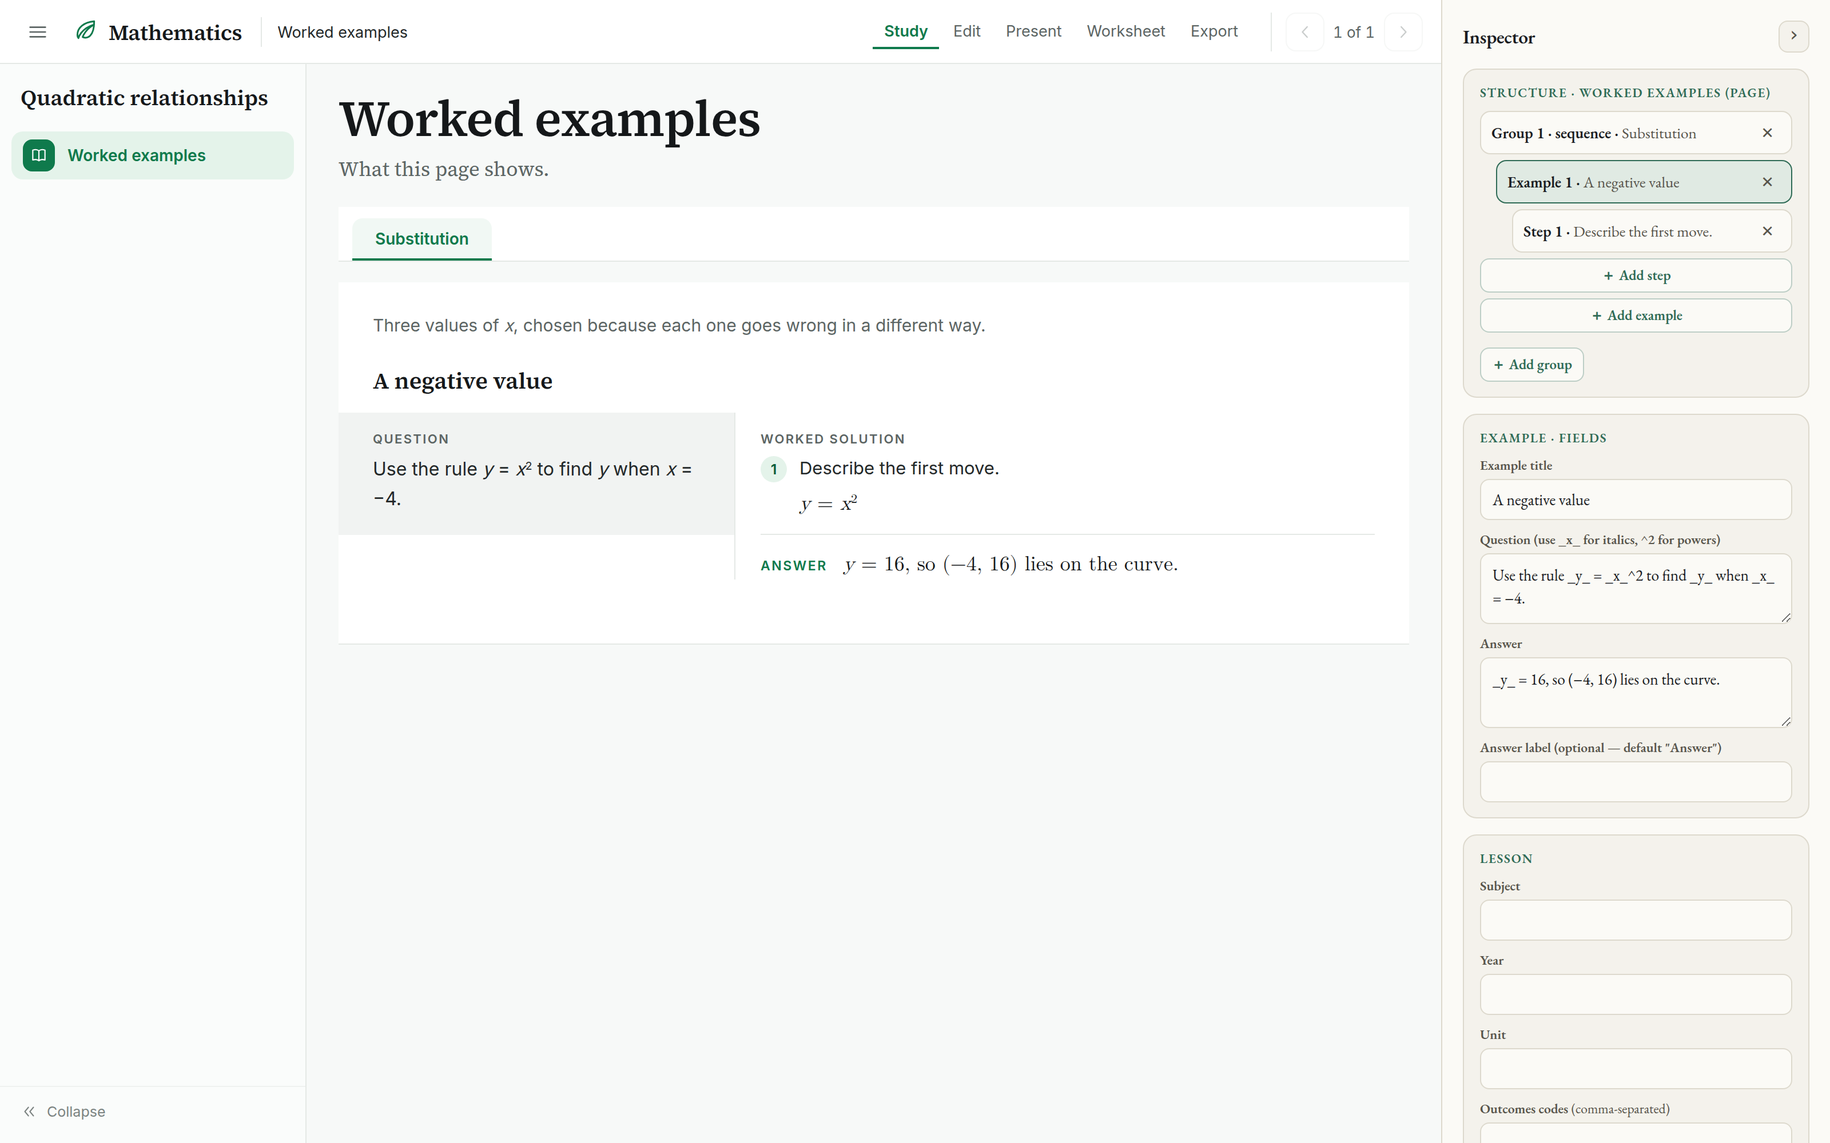
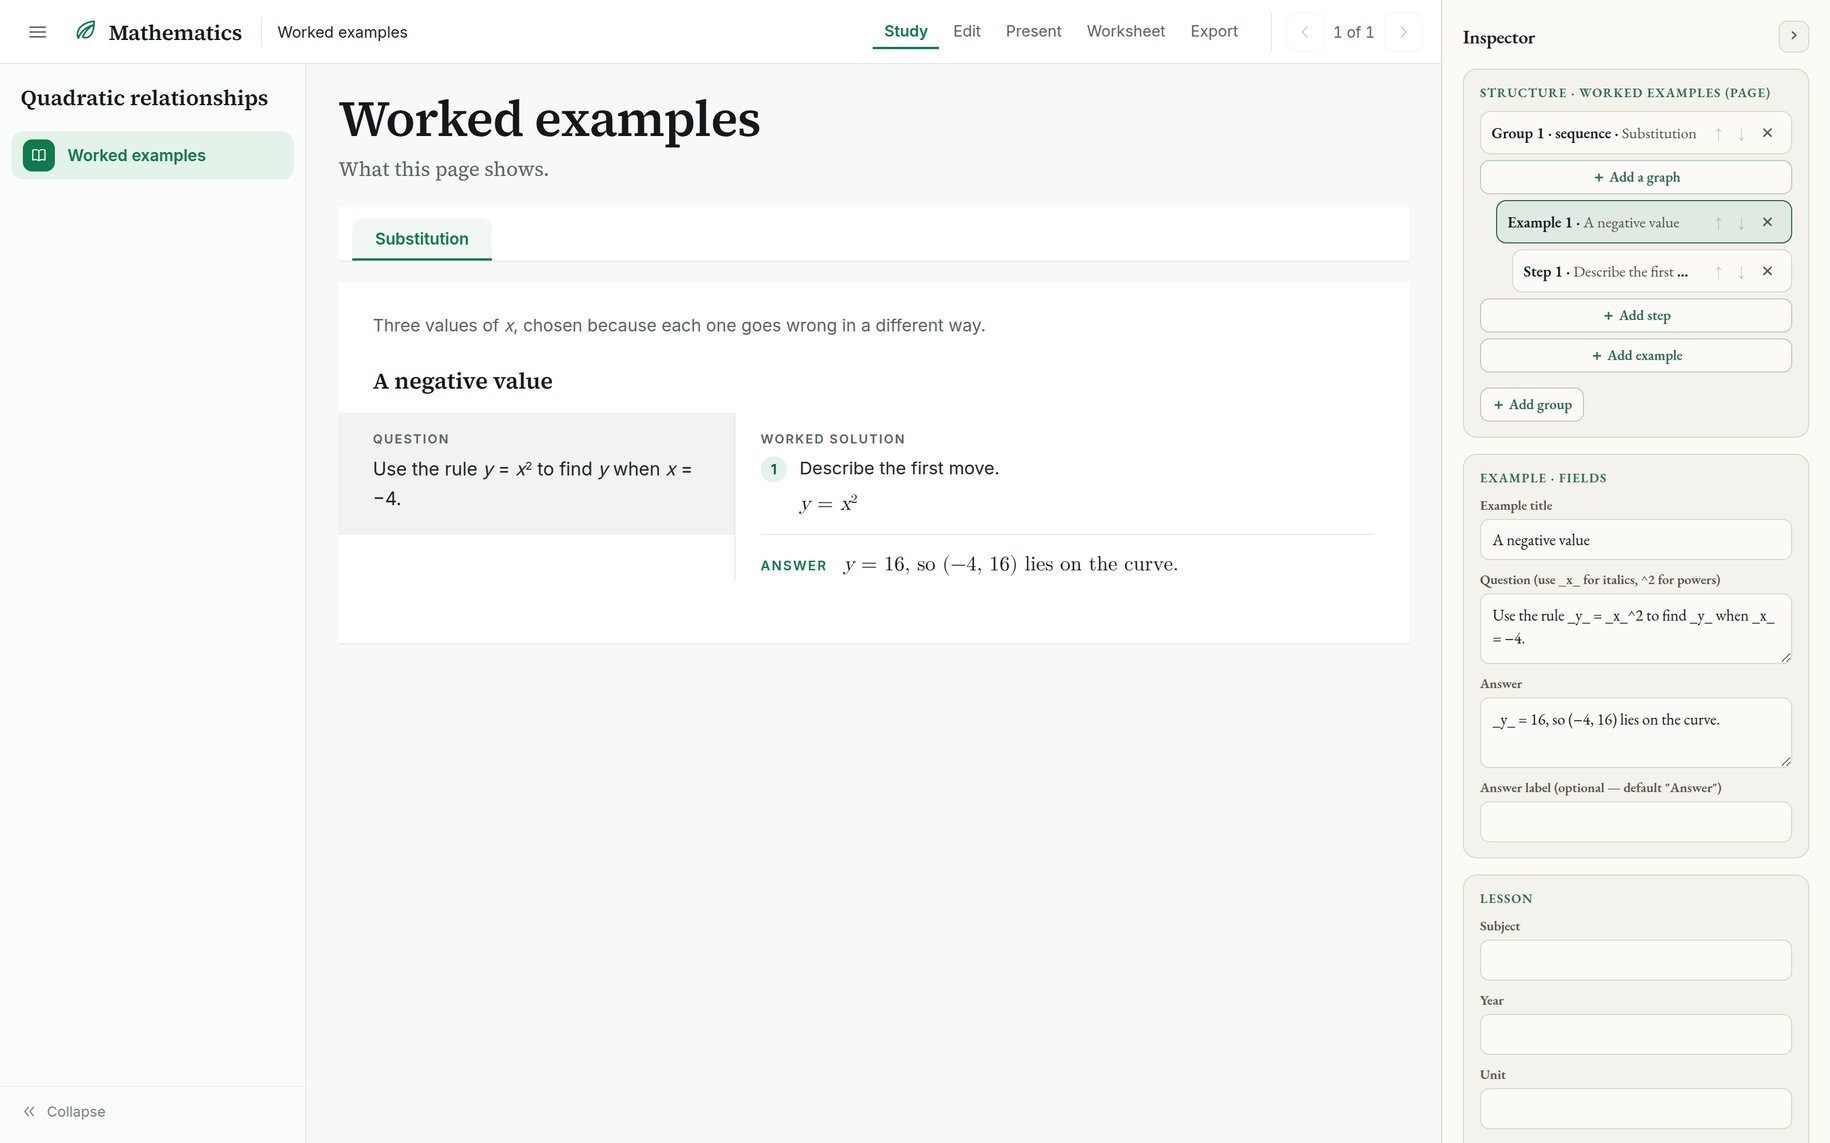
app: stage 3B — the mathematics inside a graph is editable
The graph and its objects are rows in the same outline as groups, examples and
steps, with the same reorder and remove; the fields below are the same helpers
on ordinary bound paths. No second layout system, and the figure engine is
untouched.

EXACTLY THE VOCABULARY THE RENDERER ACCEPTS — function, line, points, segment —
read out of figGraph rather than out of SCHEMA.md. An editor offering a fifth
type the page ignores would be a lie; the drive that adds one is caught.

THE LEGACY ALIASES STILL READ. figGraph accepts `f` with an `expr` alias, `rows`
with a `points` alias, and `between` with from/to. The form reads the same
fallbacks so a lesson authored the old way shows its values, and writes only the
canonical field.

A REFERENCE LINE HAS EXACTLY ONE OF x OR y — the renderer skips it with a
reported error otherwise. Changing the direction therefore MOVES the value
between the keys instead of adding a second, so the editor cannot author the
broken state it would then have to explain.

MARKED POINTS ARE [id, x, y] ARRAYS and the bound path reaches inside one
(objects.2.rows.1.1). setP walks numeric keys, and figGraph's num() accepts the
string a text input writes while still rejecting an empty cell rather than
reading it as an authored 0 — which is exactly what its own comment warns about.

THE WINDOW IS OFFERED WITH ITS CONSEQUENCE STATED. Domain, unit scale, grid and
callouts, plus the note that the window decides the plane's shape and the shape
[…]

diff --git a/lesson-studio.html b/lesson-studio.html
@@ -5265,12 +5265,30 @@ function mxAuthorablePages(){ const t=(LESSON.meta&&LESSON.meta.theme)||'', byTh
   return Object.keys(MX_PAGE_SEED).filter(k=>byTheme[k]&&byTheme[k].layoutMode==='responsive'); }
 function mxPageSeed(t){ return JSON.parse(JSON.stringify(MX_PAGE_SEED[t])); }
 /* selection: mx.g.<group> · mx.e.<group>.<example> · mx.s.<group>.<example>.<step> */
-function mxSel(sel){ const m=/^mx\.([gest])\.(\d+)(?:\.(\d+))?(?:\.(\d+))?$/.exec(String(sel||''));
+function mxSel(sel){ const m=/^mx\.([gestfo])\.(\d+)(?:\.(\d+))?(?:\.(\d+))?$/.exec(String(sel||''));
   return m?{kind:m[1],g:+m[2],e:m[3]==null?null:+m[3],s:m[4]==null?null:+m[4]}:null; }
 function mxGroups(s){ return Array.isArray(s.groups)?s.groups:[]; }
 /* THE OUTLINE IS THE STRUCTURE, and it is the only new UI: every field below it is an existing helper
    (inT/inA/inSel) writing an ordinary data-bind path, so setP/getP and the live re-render do the work
    they already did for every other type. */
+/* ONE GRAPH PER GROUP, found the way the renderer finds it. The lesson attaches its graphs as
+   `relations[{kind:'figure', figure:{…}}]`, so that is what is edited; nothing here invents a second
+   place for a figure to live. */
+function mxFigAt(g){ const r=Array.isArray(g&&g.relations)?g.relations:[];
+  const k=r.findIndex(x=>x&&x.kind==='figure'&&x.figure); return k<0?null:{k:k, fig:r[k].figure}; }
+/* WHAT THE RENDERER READS, SAID BACK. figGraph accepts `f` with a legacy `expr` alias, `rows` with a legacy
+   `points` alias, and `between` with legacy `from`/`to`; the form reads the same fallbacks so a lesson
+   authored the old way still shows its values, and writes only the canonical field. */
+function mxObjF(o){ return o&&o.f!=null?o.f:(o&&o.expr!=null?o.expr:''); }
+function mxObjRows(o){ return (o&&Array.isArray(o.rows))?o.rows:((o&&Array.isArray(o.points))?o.points:[]); }
+function mxObjLabel(o){
+  if(!o||!o.type) return 'object';
+  if(o.type==='function') return 'function · '+(mxObjF(o)||'(empty)');
+  if(o.type==='line') return 'line · '+(isFinite(+o.y)?('y = '+o.y):(isFinite(+o.x)?('x = '+o.x):'(no x or y)'));
+  if(o.type==='points') return 'points · '+mxObjRows(o).length+' marked';
+  if(o.type==='segment'){ const b=Array.isArray(o.between)?o.between:[o.from,o.to]; return 'segment · '+(b[0]||'?')+'–'+(b[1]||'?'); }
+  return String(o.type);
+}
 function mxOutline(i,s,sel){
   const S=mxSel(sel), base=`slides.${i}`;
   /* REORDER LIVES ON THE ROW, exactly as it does for blocks: the arrows are disabled at the ends rather
@@ -5297,6 +5315,18 @@ function mxOutline(i,s,sel){
         tree+=`<div class="muted small" style="margin-left:14px">${stEff.length} representation(s) by default · ${esc(stEff.map(x=>x.label).join(' · '))}</div>
           <button class="blk-add-t" data-mxstates="${gi}">Edit representations — write the defaults in</button>`;
       }
+      /* THE GRAPH AND WHAT IS IN IT. The objects are the mathematics — the curve, the reference line, the
+         marked points — and they are listed and edited exactly like every other array here. */
+      const F=mxFigAt(g);
+      if(F){
+        tree+=`<div class="blk-row${sel===`mx.f.${gi}`?' cur':''}" data-mxsel="mx.f.${gi}" style="margin-left:14px">
+          <span class="blk-t">Graph${F.fig.domain?` · <span class="muted">${esc('x '+F.fig.domain.xMin+'…'+F.fig.domain.xMax)}</span>`:''}</span>
+          <span class="blk-ord"><button class="ibtn-x" data-mxdel="f.${gi}" title="Remove the graph">✕</button></span></div>`;
+        if(S.kind==='f'||S.kind==='o'){ const OB=Array.isArray(F.fig.objects)?F.fig.objects:[];
+          OB.forEach((o,oi)=>tree+=row('margin-left:28px',`mx.o.${gi}.${oi}`,mxObjLabel(o),(o&&o.label)||'',`o.${gi}.${oi}`,`o.${gi}`,oi,OB.length));
+          tree+=`<div class="blk-palette" style="margin-left:28px">${['function','line','points','segment']
+            .map(t=>`<button class="blk-add-t" data-mxadd="o.${gi}.${t}">＋ ${t}</button>`).join('')}</div>`; }
+      } else tree+=`<button class="blk-add-t" data-mxadd="f.${gi}">＋ Add a graph</button>`;
       (g.examples||[]).forEach((ex,ei)=>{
         const EX=g.examples;
         tree+=row('margin-left:14px',`mx.e.${gi}.${ei}`,`Example ${ei+1}`,ex.label,`e.${gi}.${ei}`,`e.${gi}`,ei,EX.length);
@@ -5317,6 +5347,43 @@ function mxOutline(i,s,sel){
       ${ig('mxg.title',sel,inT('Tab title',`${gb}.title`,g.title))}
       ${ig('mxg.lede',sel,inA('Lede — what this subtopic is for',`${gb}.lede`,g.lede))}
       ${ig('mxg.foot',sel,inT('Closing region label (optional)',`${gb}.footLabel`,g.footLabel))}</div>`;
+    if(S.kind==='f'||S.kind==='o'){
+      const F=mxFigAt(g); if(!F) return `<div class="ihint">That graph is gone — add one.</div>`;
+      const fb=`${gb}.relations.${F.k}.figure`, d=F.fig.domain||{};
+      if(S.kind==='f') return `<div class="isec"><div class="isec-h">Graph · the window it is drawn in</div>
+        ${ig('mxf.x0',sel,inT('x from',`${fb}.domain.xMin`,d.xMin))}${ig('mxf.x1',sel,inT('x to',`${fb}.domain.xMax`,d.xMax))}
+        ${ig('mxf.y0',sel,inT('y from',`${fb}.domain.yMin`,d.yMin))}${ig('mxf.y1',sel,inT('y to',`${fb}.domain.yMax`,d.yMax))}
+        ${ig('mxf.asp',sel,inSel('Unit scale',`${fb}.aspect`,F.fig.aspect==='equal'?'equal':'stretch',
+          [['equal','Equal — one x-unit is one y-unit'],['stretch','Stretch to the box']]))}
+        ${ig('mxf.grid',sel,inSel('Grid',`${fb}.grid`,F.fig.grid==='hidden'?'hidden':'shown',[['shown','Shown'],['hidden','Hidden']]))}
+        ${ig('mxf.co',sel,inSel('Tap-to-read callouts',`${fb}.callouts`,F.fig.callouts==='hidden'?'hidden':'shown',[['shown','Shown'],['hidden','Hidden']]))}
+        <div class="muted small">The window decides the plane's shape, and the shape decides the composition — a wide window earns the full width, everything else the centred stage. That is the approved rule, so it is meant to move.</div></div>`;
+      const OB=Array.isArray(F.fig.objects)?F.fig.objects:[], o=OB[S.e];
+      if(!o) return `<div class="ihint">That object is gone — select another.</div>`;
+      const ob=`${fb}.objects.${S.e}`;
+      if(o.type==='function') return `<div class="isec"><div class="isec-h">Function · fields</div>
+        ${ig('mxo.f',sel,inT('y = …  (x, + − * / ^, brackets)',`${ob}.f`,mxObjF(o)))}
+        ${ig('mxo.fl',sel,inT('Label on the curve (optional)',`${ob}.label`,o.label))}
+        <div class="muted small">An expression the engine cannot read is reported on the figure itself and simply not plotted — nothing else on the page is disturbed, so it is safe to type into.</div></div>`;
+      if(o.type==='line'){ const axis=isFinite(+o.y)?'y':'x';
+        return `<div class="isec"><div class="isec-h">Reference line · fields</div>
+        ${ig('mxo.ax',sel,inSel('Direction',`${ob}`,axis,[['y','Horizontal — y = k'],['x','Vertical — x = k']],`data-mxaxis="${ob}"`))}
+        ${ig('mxo.at',sel,inT(axis==='y'?'y =':'x =',`${ob}.${axis}`,axis==='y'?o.y:o.x))}
+        ${ig('mxo.ll',sel,inT('Label (optional)',`${ob}.label`,o.label))}
+        ${ig('mxo.ls',sel,inSel('Style',`${ob}.style`,o.style==='solid'?'solid':'dashed',[['dashed','Dashed'],['solid','Solid']]))}</div>`; }
+      if(o.type==='points'){ const rows=mxObjRows(o);
+        return `<div class="isec"><div class="isec-h">Marked points · fields</div>
+        ${rows.map((r,ri)=>`<div class="qg"><div class="qg-h"><b>Point ${ri+1}</b><button class="ibtn-x" data-mxrowdel="${ob}:${ri}" title="Remove">✕</button></div>
+          ${inT('Label',`${ob}.rows.${ri}.0`,r&&r[0])}${inT('x',`${ob}.rows.${ri}.1`,r&&r[1])}${inT('y',`${ob}.rows.${ri}.2`,r&&r[2])}</div>`).join('')
+          ||'<div class="muted small">No points yet.</div>'}
+        <button class="ibtn-add" data-mxrowadd="${ob}">＋ Add point</button>
+        <div class="muted small">A point's label is also its name: a segment joins two points by these.</div></div>`; }
+      if(o.type==='segment'){ const bt=Array.isArray(o.between)?o.between:[o.from,o.to];
+        return `<div class="isec"><div class="isec-h">Segment · fields</div>
+        ${ig('mxo.sa',sel,inT('From point',`${ob}.between.0`,bt&&bt[0]))}
+        ${ig('mxo.sb',sel,inT('To point',`${ob}.between.1`,bt&&bt[1]))}</div>`; }
+      return `<div class="ihint">No fields for "${esc(String(o.type))}".</div>`;
+    }
     if(S.kind==='t'){ const st=(g.states||[])[S.e];
       if(!st) return `<div class="ihint">That representation is gone — select another.</div>`;
       const tb=`${gb}.states.${S.e}`, shown=Array.isArray(st.show)?st.show:[];
@@ -5355,6 +5422,17 @@ function mxOutlineWire(i){
   ins.querySelectorAll('[data-mxadd]').forEach(b=>b.onclick=()=>{
     const a=b.dataset.mxadd.split('.'), G=groups();
     if(a[0]==='g'){ G.push({id:uid('g',G.length),type:'sequence',title:'New subtopic',examples:[]}); selZone=`mx.g.${G.length-1}`; }
+    else if(a[0]==='f'){ const g=G[+a[1]]; const r=(g.relations=g.relations||[]);
+      /* seeded so it renders the moment it exists — an empty graph reports "nothing to plot" and teaches
+         the author nothing about what a graph here is for */
+      r.push({kind:'figure',figure:{type:'figure',figure:'graph',aspect:'equal',grid:'shown',
+        domain:{xMin:-5,xMax:5,yMin:-1,yMax:11},objects:[{type:'function',f:'x^2'}]}});
+      selZone=`mx.f.${a[1]}`; }
+    else if(a[0]==='o'){ const F=mxFigAt(G[+a[1]]); if(!F) return;
+      const ob=(F.fig.objects=Array.isArray(F.fig.objects)?F.fig.objects:[]);
+      ob.push({function:{type:'function',f:'x^2'},line:{type:'line',y:0,style:'dashed'},
+        points:{type:'points',rows:[['A',0,0]]},segment:{type:'segment',between:['A','B']}}[a[2]]);
+      selZone=`mx.o.${a[1]}.${ob.length-1}`; }
     else if(a[0]==='t'){ const g=G[+a[1]]; const st=(g.states=g.states||[]);
       st.push({id:uid('st',st.length),label:'New representation',show:['question','steps','answer']}); selZone=`mx.t.${a[1]}.${st.length-1}`; }
     else if(a[0]==='e'){ const g=G[+a[1]]; const ex=(g.examples=g.examples||[]);
@@ -5363,20 +5441,32 @@ function mxOutlineWire(i){
       st.push({id:uid('s',st.length),text:'Describe this step.',math:''}); selZone=`mx.s.${a[1]}.${a[2]}.${st.length-1}`; }
     renderSlide(); });
   /* ONE ADDRESS SCHEME FOR EVERY SIBLING ARRAY, so reorder is the same three lines wherever it appears */
-  const arrAt=(a)=>a[0]==='g'?groups():a[0]==='t'?(groups()[+a[1]].states=groups()[+a[1]].states||[])
+  const figOf=(gi)=>{ const F=mxFigAt(groups()[gi]); return F&&(F.fig.objects=Array.isArray(F.fig.objects)?F.fig.objects:[]); };
+  const arrAt=(a)=>a[0]==='g'?groups():a[0]==='o'?figOf(+a[1]):a[0]==='t'?(groups()[+a[1]].states=groups()[+a[1]].states||[])
     :a[0]==='e'?(groups()[+a[1]].examples=groups()[+a[1]].examples||[])
     :(groups()[+a[1]].examples[+a[2]].steps=groups()[+a[1]].examples[+a[2]].steps||[]);
   ins.querySelectorAll('[data-mxmove]').forEach(b=>b.onclick=e=>{ e.stopPropagation();
     const parts=b.dataset.mxmove.split(':'), a=parts[0].split('.'), k=+parts[1], d=+parts[2];
     const arr=arrAt(a), nk=k+d; if(nk<0||nk>=arr.length) return;
     const t=arr[k]; arr[k]=arr[nk]; arr[nk]=t;
-    selZone=(a[0]==='g')?`mx.g.${nk}`:(a[0]==='t')?`mx.t.${a[1]}.${nk}`
+    selZone=(a[0]==='g')?`mx.g.${nk}`:(a[0]==='o')?`mx.o.${a[1]}.${nk}`:(a[0]==='t')?`mx.t.${a[1]}.${nk}`
       :(a[0]==='e')?`mx.e.${a[1]}.${nk}`:`mx.s.${a[1]}.${a[2]}.${nk}`;
     renderSlide(); });
   /* adopt the rendered defaults into the JSON, so what is edited is what the page reads */
   ins.querySelectorAll('[data-mxstates]').forEach(b=>b.onclick=()=>{ const gi=+b.dataset.mxstates, g=groups()[gi];
     g.states=mxWexStates(g).map(x=>({id:x.id,label:x.label,lede:x.lede||'',show:x.show.slice()}));
     selZone=`mx.t.${gi}.0`; renderSlide(); });
+  ins.querySelectorAll('[data-mxrowadd]').forEach(b=>b.onclick=()=>{ const o=getP(LESSON,b.dataset.mxrowadd);
+    const rows=(o.rows=Array.isArray(o.rows)?o.rows:(Array.isArray(o.points)?o.points:[])); delete o.points;
+    rows.push(['P'+(rows.length+1),0,0]); renderSlide(); });
+  ins.querySelectorAll('[data-mxrowdel]').forEach(b=>b.onclick=()=>{ const [path,ri]=b.dataset.mxrowdel.split(':');
+    const o=getP(LESSON,path); const rows=Array.isArray(o.rows)?o.rows:o.points; if(rows) rows.splice(+ri,1); renderSlide(); });
+  /* A LINE HAS EXACTLY ONE OF x OR y — the renderer skips it with a reported error otherwise. So changing
+     the direction MOVES the value rather than adding a second key, and the editor can never author the
+     broken state it would then have to explain. */
+  ins.querySelectorAll('[data-mxaxis]').forEach(sl=>sl.onchange=()=>{ const o=getP(LESSON,sl.dataset.mxaxis);
+    const want=sl.value, had=isFinite(+o.y)?'y':(isFinite(+o.x)?'x':null);
+    if(want===had) return; const v=had?o[had]:0; delete o.x; delete o.y; o[want]=v; renderSlide(); });
   ins.querySelectorAll('[data-mxshow]').forEach(c=>c.onchange=()=>{
     const [path,key]=c.dataset.mxshow.split(':'); const st=getP(LESSON,path);
     const cur=Array.isArray(st.show)?st.show.slice():[];
@@ -5387,6 +5477,9 @@ function mxOutlineWire(i){
   ins.querySelectorAll('[data-mxdel]').forEach(b=>b.onclick=e=>{ e.stopPropagation();
     const a=b.dataset.mxdel.split('.'), G=groups();
     if(a[0]==='g') G.splice(+a[1],1);
+    else if(a[0]==='f'){ const F=mxFigAt(G[+a[1]]); if(F){ G[+a[1]].relations.splice(F.k,1);
+      if(!G[+a[1]].relations.length) delete G[+a[1]].relations; } }
+    else if(a[0]==='o'){ const F=mxFigAt(G[+a[1]]); if(F) F.fig.objects.splice(+a[2],1); }
     else if(a[0]==='t'){ G[+a[1]].states.splice(+a[2],1); if(!G[+a[1]].states.length) delete G[+a[1]].states; }
     else if(a[0]==='e') G[+a[1]].examples.splice(+a[2],1);
     else G[+a[1]].examples[+a[2]].steps.splice(+a[3],1);

diff --git a/CHANGELOG.md b/CHANGELOG.md
@@ -8,6 +8,43 @@ All notable changes to **Lesson Studio** are recorded here. Format follows
 ## [Unreleased]
 
 ### Added
+- **Stage 3B — the mathematics inside a graph is editable** (`lesson-studio.html`,
+  `scripts/verify-mx-authoring.mjs` now 28 checks). The graph and its objects are rows in the same outline
+  as everything else, with the same reorder and remove, and the fields below are the same helpers on
+  ordinary bound paths. No second layout system, and the figure engine is untouched.
+  - **Exactly the vocabulary the RENDERER accepts** — `function` · `line` · `points` · `segment`, read out
+    of `figGraph`, not out of SCHEMA.md. An editor offering a fifth type the page ignores would be a lie,
+    and the drive that adds one is caught.
+  - **The legacy aliases still read.** `figGraph` accepts `f` with an `expr` alias, `rows` with a `points`
+    alias, and `between` with `from`/`to`. The form reads the same fallbacks so a lesson authored the old
+    way shows its values, and writes only the canonical field.
+  - **A reference line has exactly one of x or y** — the renderer skips it with a reported error otherwise.
+    So changing the direction MOVES the value between the keys rather than adding a second, and the editor
+    cannot author the broken state it would then have to explain.
+  - **Marked points are `[id, x, y]` arrays**, and the bound path reaches inside one
+    (`…objects.2.rows.1.1`); `setP` walks numeric keys, and `figGraph`'s `num()` accepts the string a text
+    input writes while still rejecting an empty cell rather than reading it as an authored 0.
+  - **The window is offered with the consequence stated.** Domain, unit scale, grid and callouts — and the
+    note that the window decides the plane's shape and the shape decides the composition, which is the
+    approved rule, so a wide window moving the page to the full grid is correct behaviour rather than a
+    regression. The gate asserts that move: tall → `down-8`, wide → `down-12`.
+
+  **Measured before building any of it: a half-typed expression is safe.** The inspector re-renders on every
+  keystroke, so `x^`, `x^2 -`, `√x` and `` all reach the figure engine. Every one of them is reported on the
+  figure itself — "function 1 not plotted — unexpected end of expression", "unexpected character √" — and
+  skipped. Nothing throws, the page stays alive, and no other object is disturbed. The editor therefore
+  needs no debounce and no validation of its own; the engine already says exactly what is wrong.
+
+  Four drives to failure: the axis switch leaving both keys set, a type offered that the renderer ignores, a
+  graph seeded with nothing to plot, and a point's coordinate bound to its row rather than into it.
+
+### Fixed
+- **A control that crashed instead of failing** (`scripts/verify-mx-authoring.mjs`). The object-type check
+  clicked each add button directly, so removing one made the click throw and killed the run before it could
+  report — the one thing a control must never do is be unable to say it failed. It now reads the offered set
+  back and names what is missing.
+
+### Added (stage 3A)
 - **Stage 3A — the lesson's structure is fully editable** (`lesson-studio.html`,
   `scripts/verify-mx-authoring.mjs` now 21 checks). Two things, both on the machinery Stage 2 established:
   - **Reorder.** Groups, examples, steps and representations all move by `↑ ↓` on their outline row, through

diff --git a/HANDOFF.md b/HANDOFF.md
@@ -781,11 +781,25 @@ renderer is referenced.
   defaults with one button to write them in, because editing something the JSON does not contain would be a
   lie. 21 checks, 8 drives.
 
-  **STILL TO AUTHOR** — 3B: the figure's `objects[]` (function, reference line, marked points, labels); the
-  frame form (domain/grid/aspect) already exists on the composable `figure` block to copy. 3C: the table of
-  values, then rebuild the whole quadratics lesson through the UI and compare it SEMANTICALLY (not
-  byte-identically) with `docs/atlas/lesson/quadratics.app.json`, and render it in Study, Edit and Present.
-  Desktop authoring only.
+  **STAGE 3B IS DONE**: the graph and its objects are rows in the same outline. The offered set is exactly
+  what `figGraph` accepts — `function` · `line` · `points` · `segment` — read from the renderer, not from
+  SCHEMA.md. Legacy aliases (`expr`, `points`, `from`/`to`) still READ so an old lesson shows its values;
+  only the canonical field is written. A reference line's direction MOVES its value between `x` and `y`,
+  because the renderer skips a line with both or neither. Point rows are `[id, x, y]` arrays and the bound
+  path reaches inside one. The window's form states the consequence: geometry decides composition, so a wide
+  window moving the page to `down-12` is the approved rule working, not a regression — asserted.
+
+  **A HALF-TYPED EXPRESSION IS SAFE, and that was measured before anything was built.** The inspector
+  re-renders on every keystroke, so `x^`, `x^2 -`, `√x` and the empty string all reach the figure engine.
+  Every one is reported ON THE FIGURE ("function 1 not plotted — unexpected end of expression") and skipped;
+  nothing throws and no other object is disturbed. So the editor needs NO debounce and NO validation of its
+  own — adding either would only duplicate, worse, what the engine already says.
+
+  **STILL TO AUTHOR** — 3C: the table of values (stub/head/rows/cells), then rebuild the whole quadratics
+  lesson through the UI and compare it SEMANTICALLY (not byte-identically) with
+  `docs/atlas/lesson/quadratics.app.json`, and render it in Study, Edit and Present. Desktop authoring only.
+  Note that a figure attached to a STEP (`step.visual`) is not yet editable — 3B covers the group's graph,
+  which is where both of this lesson's graphs live; the table is a step visual, so 3C needs that path.
 
   **THE STUDY / EDIT DISTINCTION IS CORRECT, measured 22 Sep**: inspector visible ⟺ `mode==='edit'` ⟺ Edit
   carries `.on`; Study clears the inspector's content entirely. A screenshot that appeared to show otherwise
